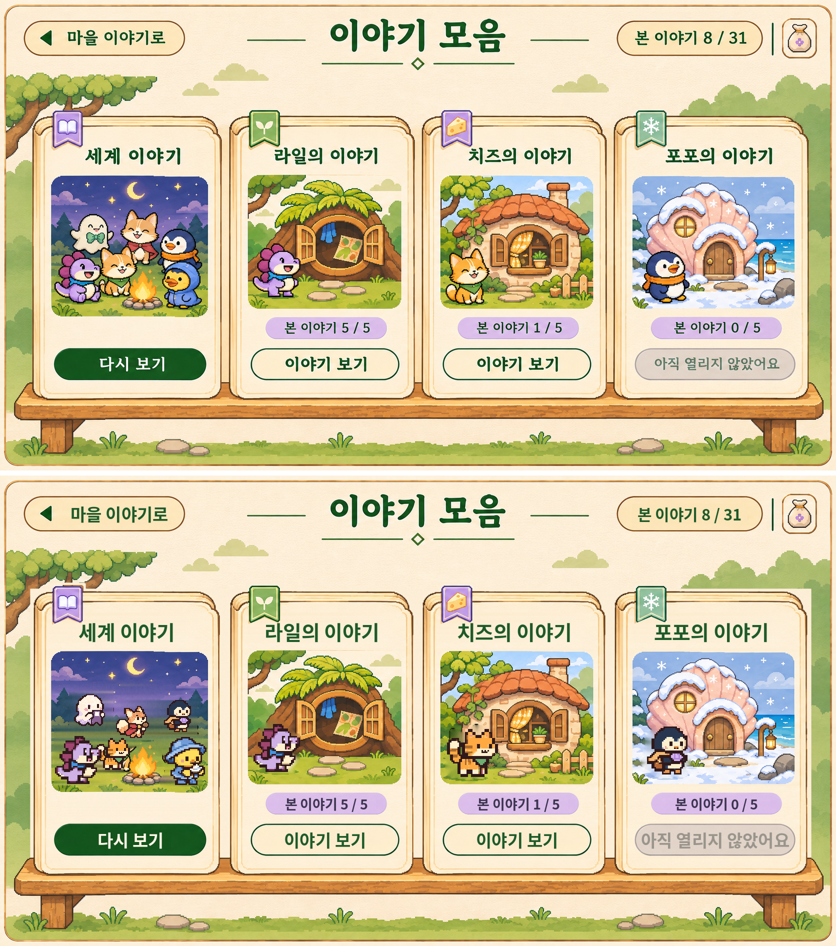
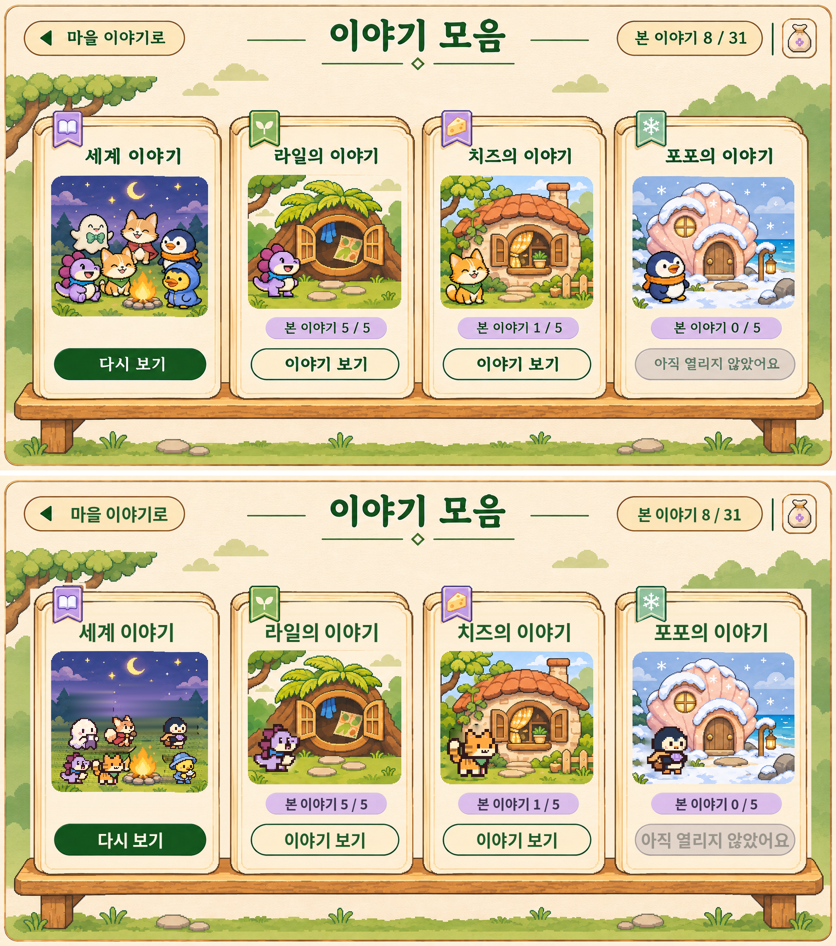
Redraw Lail's eyes, seat the world thumbnail around the fire, split out the pouch
Lail: all twelve frames get two hand-placed 2x4 eyes three pixels apart (the
snout dot read as a third eye and is gone); closed eyes are two matching arches.
World story thumbnail: the six friends now stand on the grass around the
campfire instead of floating above it. The pouch from the bag button is a
separate transparent icon (res/drawable-nodpi/ui_bag_pouch_icon.png) with an
empty frame in docs, so the bag button can use the pouch on its own.

Claude-Session: https://claude.ai/code/session_015FKkdqthELbMosGZwzsTMF

Changed region(s): [[0.0622, 0.7357, 0.2488, 0.8277]]

diff --git a/docs/art/ui-screens/scripts/fix_lail.py b/docs/art/ui-screens/scripts/fix_lail.py
@@ -1,0 +1,52 @@
+"""Lail (mint): hand-placed matching eyes. Both eyes = the 2x4 running eye (dark, 1 highlight), 3 px apart;
+closed frames get two matching 3x2 arches. Old eye, its shading and the snout dot are painted over with
+the face colour."""
+import numpy as np, os
+from PIL import Image
+D = (48, 25, 27); FACE = (207, 177, 229); HI = (255, 249, 233)
+EYE = ['##', '#w', '##', '##']
+ARCH = ['.##.', '#..#']
+# frame: (near eye left, top, erase box x0,y0,x1,y1, mode)
+F = {
+ 'idle_0': (25, 23, (23, 21, 27, 27), 'open'), 'run_0': (25, 23, (23, 21, 27, 27), 'open'),
+ 'run_1': (25, 22, (23, 20, 27, 26), 'open'), 'run_2': (25, 23, (23, 21, 27, 27), 'open'),
+ 'run_3': (24, 23, (22, 21, 26, 27), 'open'), 'jump_0': (25, 24, (23, 22, 27, 28), 'open'),
+ 'jump_1': (25, 23, (23, 21, 27, 27), 'open'), 'land_0': (25, 23, (23, 22, 27, 27), 'open'),
+ 'fail_0': (25, 23, (23, 21, 27, 27), 'open'), 'greet_0': (25, 23, (23, 21, 27, 27), 'open'),
+ 'idle_1': (24, 23, (21, 21, 28, 26), 'closed'), 'home_0': (24, 23, (21, 22, 27, 26), 'closed'),
+}
+GAP = 5   # far eye left = near left + 5
+def is_dark(p): return abs(int(p[0])-D[0]) + abs(int(p[1])-D[1]) + abs(int(p[2])-D[2]) < 40
+for f, (nx, ny, (ex0, ey0, ex1, ey1), mode) in F.items():
+    src = np.array(Image.open(f'src/sprite_mint_{f}.png').convert('RGBA'))
+    out = src.copy()
+    a = src[:, :, 3]
+    face_cols = {tuple(src[y, x, :3]) for y in range(ey0, ey1 + 1) for x in range(ex0 - 2, ex1 + 8) if a[y, x]}
+    # 1) paint the old eye + shading inside the erase box with face colour (never touch the outline: pixels
+    #    whose 4-neighbour is transparent, or dark pixels connected to such)
+    for y in range(ey0, ey1 + 1):
+        for x in range(ex0, ex1 + 1):
+            p = tuple(src[y, x, :3])
+            if a[y, x] and p not in [FACE, (181, 138, 202)] and not (y >= 27 and p in [(255, 240, 206), (255, 249, 233)]):
+                if y >= 27 and is_dark(p): continue          # mouth line
+                out[y, x, :3] = FACE
+    # 2) snout dots (single dark pixels inside the face, right of the eyes)
+    for y in range(ny - 1, ny + 5):
+        for x in range(nx + 8, 36):
+            if a[y, x] and is_dark(src[y, x, :3]):
+                nb = [(y, x - 1), (y, x + 1), (y - 1, x), (y + 1, x)]
+                if all(a[yy, xx] and not is_dark(src[yy, xx, :3]) for yy, xx in nb):
+                    out[y, x, :3] = FACE
+    # 3) stamp both eyes
+    stamp = EYE if mode == 'open' else ARCH
+    if mode == 'open': nx -= 2
+    for lx in (nx, nx + GAP):
+        for r, row in enumerate(stamp):
+            for c, ch in enumerate(row):
+                Y, X = ny + r + (1 if mode == 'closed' else 0), lx + c
+                assert a[Y, X], (f, X, Y)
+                if ch == '#': out[Y, X, :3] = D
+                elif ch == 'w': out[Y, X, :3] = HI
+                elif ch == '.': out[Y, X, :3] = FACE
+    Image.fromarray(out, 'RGBA').save(f'fixed/sprite_mint_{f}.png')
+print('lail done')

diff --git a/docs/art/ui-screens/scripts/fix_world.py b/docs/art/ui-screens/scripts/fix_world.py
@@ -1,5 +1,5 @@
 """World thumbnail: remove the mockup's six characters (keep sky, trees, grass, campfire) and seat the six
-original idle sprites around the fire."""
+original idle sprites on the grass around the fire (back row behind the fire, front row in front)."""
 import cv2, numpy as np, os, sys
 from PIL import Image
 sys.path.insert(0, os.path.dirname(os.path.abspath(__file__)))
@@ -13,17 +13,27 @@ for b in [(36, 64, 124, 152), (138, 60, 218, 178), (210, 98, 292, 208), (6, 148,
 fire = np.zeros_like(m); cv2.ellipse(fire, (186, 228), (42, 40), 0, 0, 360, 255, -1)
 m[fire > 0] = 0
 valid = alpha > 200
-out = rowfill(img, m, valid=valid, std=3.0)
-# soften the horizontal streaks a little, only inside the mask
-blur = cv2.GaussianBlur(out, (1, 9), 0)
-out[m > 0] = blur[m > 0]
-n = noise(H, W, 3.0)
-out = np.clip(out.astype(np.float32) + n * (m > 0)[..., None], 0, 255).astype(np.uint8)
+low = rowfill(img, m, valid=valid, std=0).astype(np.float32)
+low = cv2.GaussianBlur(low, (1, 11), 0)
+# texture detail borrowed from the visible grass strip at the bottom and the tree band at the left edge
+f = img.astype(np.float32)
+detail = f - cv2.GaussianBlur(f, (0, 0), 3)
+tex = np.zeros_like(f)
+for y in range(H):
+    for x in range(W):
+        if m[y, x]:
+            if y >= 160:
+                sy = 268 + (y * 3) % 12; sx = (x + y * 37) % (W - 20) + 10
+                tex[y, x] = detail[sy, sx] * min(1.0, (y - 160) / 20)
+out = f.copy()
+out[m > 0] = (low + tex * 0.9)[m > 0]
+a = cv2.GaussianBlur((m > 0).astype(np.float32), (5, 5), 0)[..., None]
+out = np.clip(f * (1 - a) + out * a, 0, 255).astype(np.uint8)
 canvas = Image.fromarray(cv2.cvtColor(out, cv2.COLOR_BGR2RGB)).convert('RGBA')
-SEATS = [('nunu', 74, 150), ('lumi', 166, 174), ('popo', 252, 162),       # back, on the left/right of the fire
-         ('cheese', 126, 238), ('mint', 56, 266), ('piko', 266, 268)]     # front
-for sid, cx, foot in SEATS:
-    sc = 2 if sid in ('nunu', 'lumi', 'popo', 'cheese') else 3
+# (sprite, centre x, feet y, scale) – back row first so the front row overlaps it
+SEATS = [('nunu', 62, 198, 2), ('lumi', 142, 192, 2), ('popo', 244, 196, 2),
+         ('mint', 50, 266, 2), ('cheese', 116, 268, 2), ('piko', 262, 266, 2)]
+for sid, cx, foot, sc in SEATS:
     s = Image.open(f'orig/sprite_{sid}_idle_0.png').convert('RGBA').resize((48 * sc, 48 * sc), Image.NEAREST)
     canvas.alpha_composite(s, (int(cx - 22 * sc), int(foot - 46 * sc)))
 res = np.dstack([cv2.cvtColor(np.array(canvas.convert('RGB')), cv2.COLOR_RGB2BGR), alpha])

diff --git a/docs/art/ui-screens/EYES_FIX.md b/docs/art/ui-screens/EYES_FIX.md
@@ -4,7 +4,7 @@ A 요청: 모든 캐릭터의 두 눈을 같은 모양·크기로 맞춤. 원본
 
 - 바꾼 프레임: 50장 / 72장 (`app/src/main/res/drawable-nodpi/sprite_*.png`). 나머지는 이미 두 눈이 같거나 감은 눈이라 그대로.
 - 방법: 프레임마다 두 눈 중 큰 쪽의 픽셀 모양을 작은 쪽 자리에 같은 높이로 복사. 먼 눈이 안 보이던 프레임(라일 대부분, 루미 일부, 피코 점프)은 같은 눈을 새로 그림.
-  라일은 큰 눈(3×5)을 달리기 프레임의 2칸 눈으로 통일했고, 감은 눈 2장(idle_1, home_0)은 같은 ∩ 모양 두 개로 다시 그림. 치즈 착지(land_0)는 `> <`.
+  라일은 12장 모두 손으로 다시 배치: 두 눈 모두 2×4 눈(하이라이트 1칸), 사이 3칸, 코끝 점 제거. 감은 눈 2장(idle_1, home_0)은 같은 ∩ 두 개. (`scripts/fix_lail.py`) 치즈 착지(land_0)는 `> <`.
 - 지킨 것: 48×48·투명 영역(알파) 그대로, 바뀐 픽셀은 눈 주변 얼굴 줄(y 18~31)만, 색은 캐릭터별 기존 색 안에서만(16색 규칙 유지).
 - 이야기 모음 썸네일(`parts/story_thumb_*`)도 고친 스프라이트로 다시 만듦.
 - 주의: `docs/art/source/*.png` 원본 시트와 `scripts/art/export_sprites.py`는 바꾸지 않았다. **시트에서 다시 내보내면 눈이 예전으로 돌아간다.** 다시 내보낼 일이 있으면 `scripts/fix_eyes2.py`, `scripts/snap_palette.py`를 이어서 돌리면 된다.

diff --git a/PROJECT_STATE.md b/PROJECT_STATE.md
@@ -766,3 +766,4 @@
 - 빌드·기기 실행 미검증 (작업 환경에 Android SDK·local.properties 없음). B가 assembleDebug와 16:9/20:9 기기 확인 후 병합.
 - 후속(같은 날, A 확정): 캐릭터는 항상 원본 48×48 스프라이트. 이야기 모음 썸네일 4장은 집·풍경은 시안 유지, 캐릭터만 원본 sprite_<id>_idle_0으로 교체(세계 이야기는 6명 재배치). 메인 메뉴·로그인 배경의 시안 캐릭터는 아직 그대로(교체 여부 A 결정 대기). Git main에 원본 스프라이트·배경 원본이 그대로 있음을 확인.
 - 후속(A 요청 "눈 전부 멀쩡하게"): 원본 스프라이트 50장의 두 눈을 같은 모양·크기로 정리(먼 눈이 1px 점/선이던 문제). 알파·크기·캐릭터별 색 그대로, 얼굴 줄만 수정. docs/art/source 시트는 그대로라 재내보내기 시 되돌아감 — docs/art/ui-screens/EYES_FIX.md 참고. 빌드·기기 확인은 B.
+- 후속 3(A): 라일 12장 눈을 손으로 다시 배치(2×4 두 눈, 사이 3칸, 코끝 점 제거, 감은 눈은 ∩ 두 개). 세계 이야기 썸네일은 여섯 명을 모닥불 둘레 풀밭에 앉힘(떠 보이던 문제). 주머니 아이콘을 단독 투명 PNG로 분리: res/drawable-nodpi/ui_bag_pouch_icon.png (+ docs 쪽 4배 확대본·빈 테두리).
